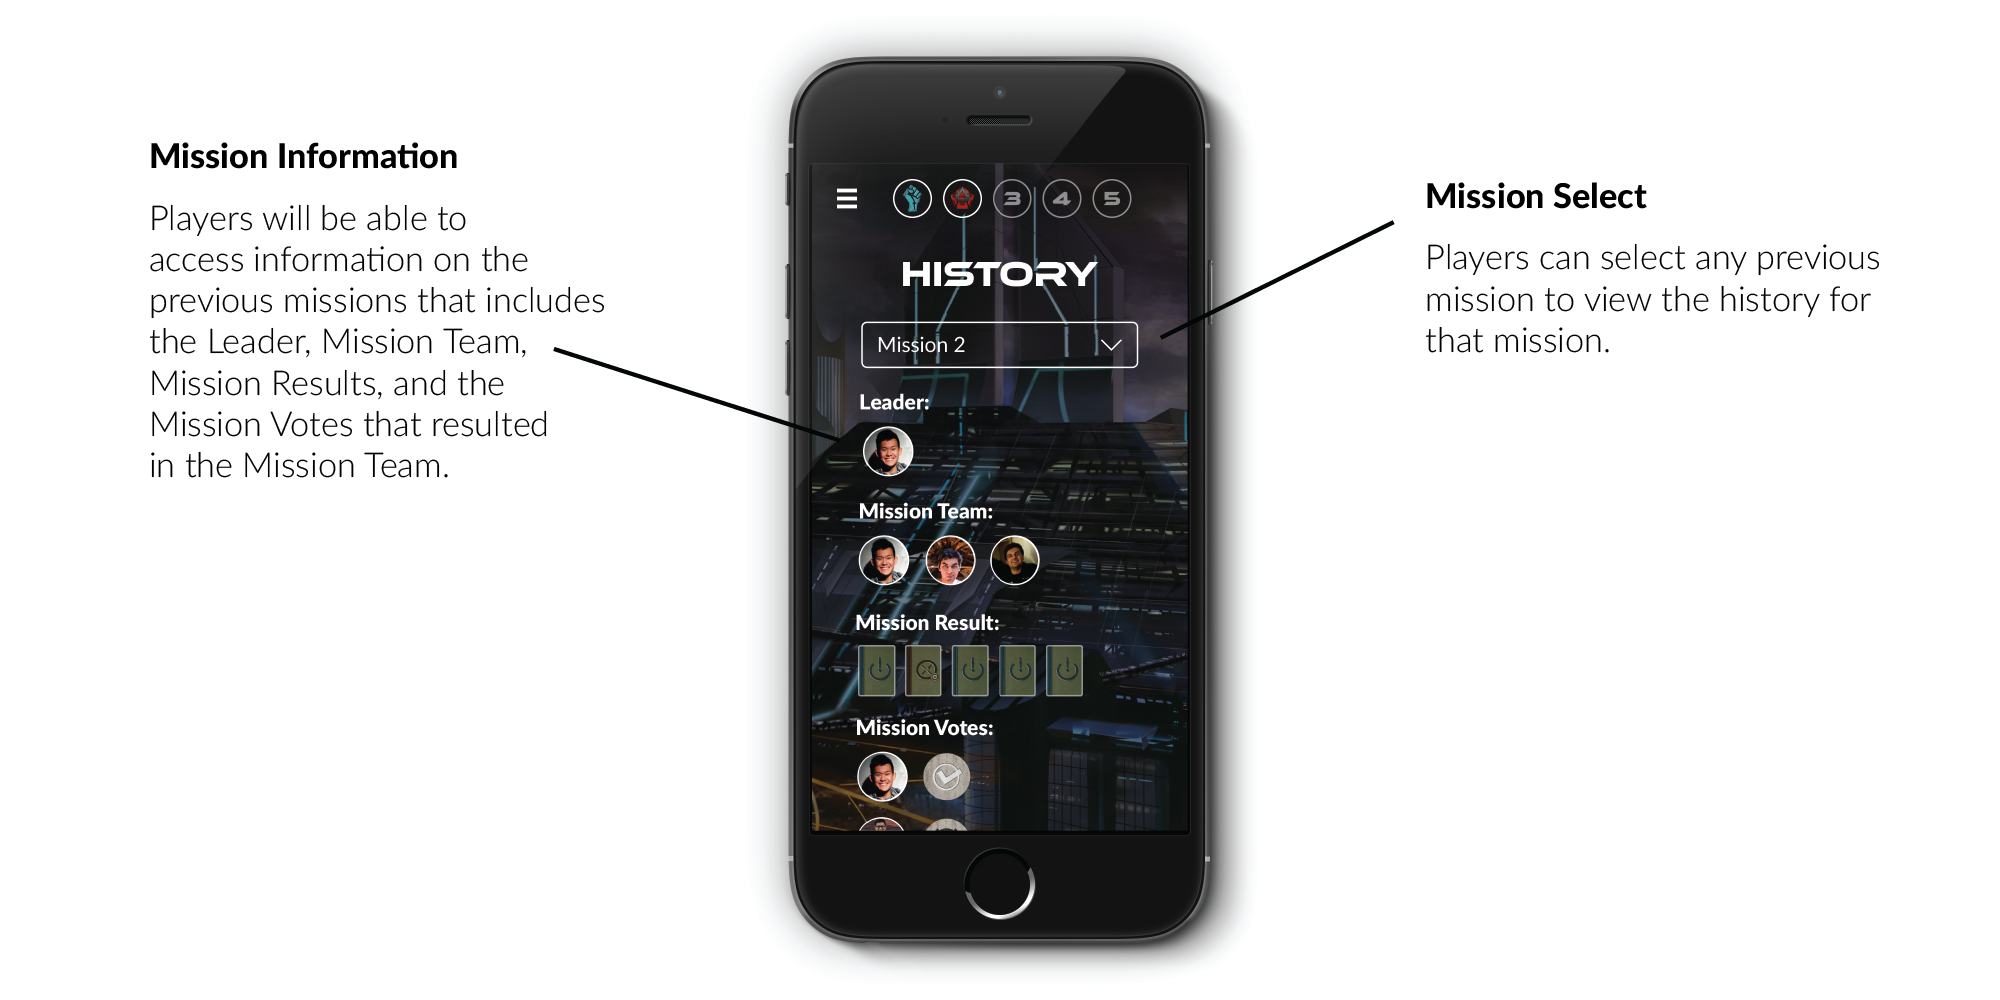
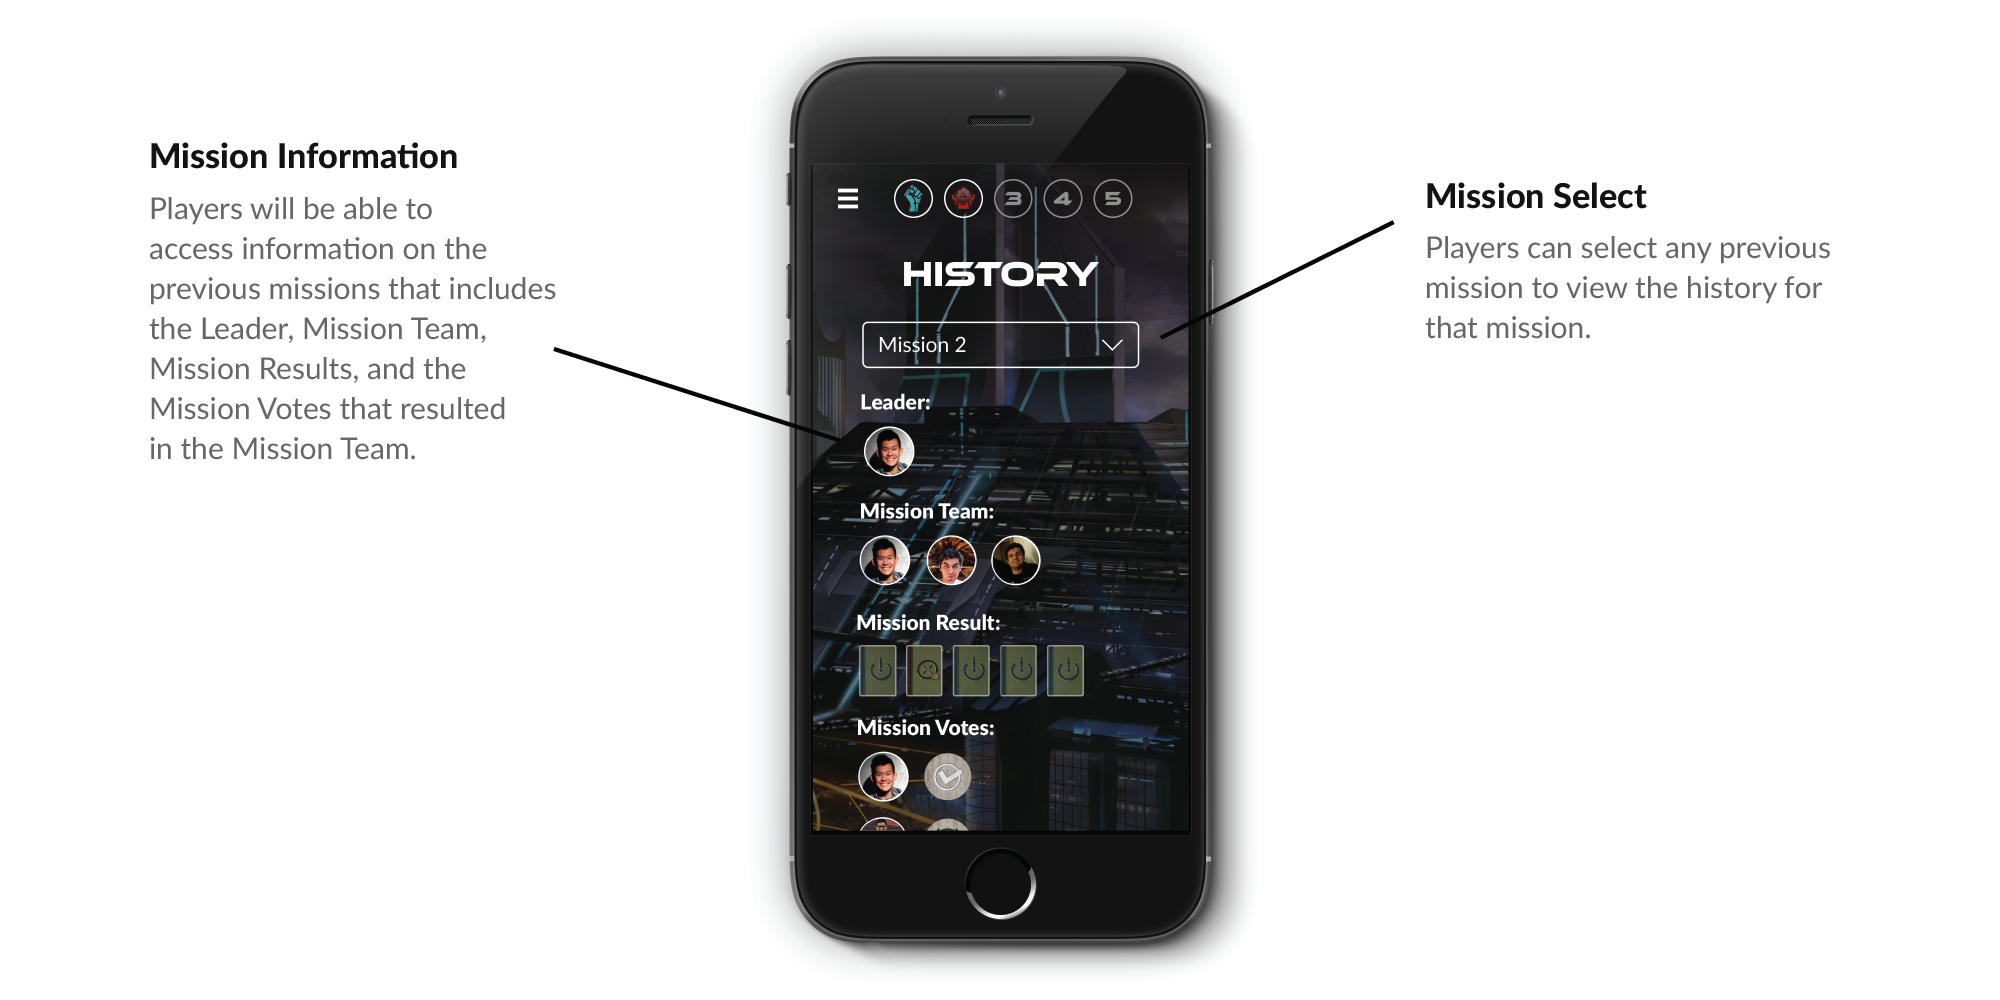
fix resistance images

diff --git a/the-resistance.html b/the-resistance.html
@@ -38,8 +38,8 @@
       The Resistance was my company Unboard's first project, and our first experience with a big client. We started development on October 2014, and recently released the beta version of The Resistance to an exclusive audience.</p>
       <img class="medium" src="the-resistance-img/1.jpg">
       <p>We started off on the wrong foot. I tried to create a sleek, modern design but eventually realized I had lost the feel of The Resistance in translation. Meanwhile, we hit obstacle after obstacle in development. The final goal was to have two native apps interfacing with the same web server. We quickly realized that keeping two teams (Android and iOS) in sync while building a server in between required more than just basic teamwork. So, I put some more thought into it.</p>
-      <img class="big" src="the-resistance-img/d1.png">
-      <img class="big" src="the-resistance-img/d2.png">
+      <img class="big" src="the-resistance-img/d1.png?ver=1">
+      <img class="big" src="the-resistance-img/d2.png?ver=1">
       <p>With everything I learned in mind, I was able to design a feel and flow that was modern and fitting. At the same time, we organized and buckled down, using a mix of emails, Trello, and a 30 page design document to literally keep everyone on the same page. We utilized several wireframe diagrams to make sure both teams knew exactly what to build and how to build it.</p>
       <img class="small" src="the-resistance-img/flow1.png">
       <img class="small" src="the-resistance-img/flow2.png">
